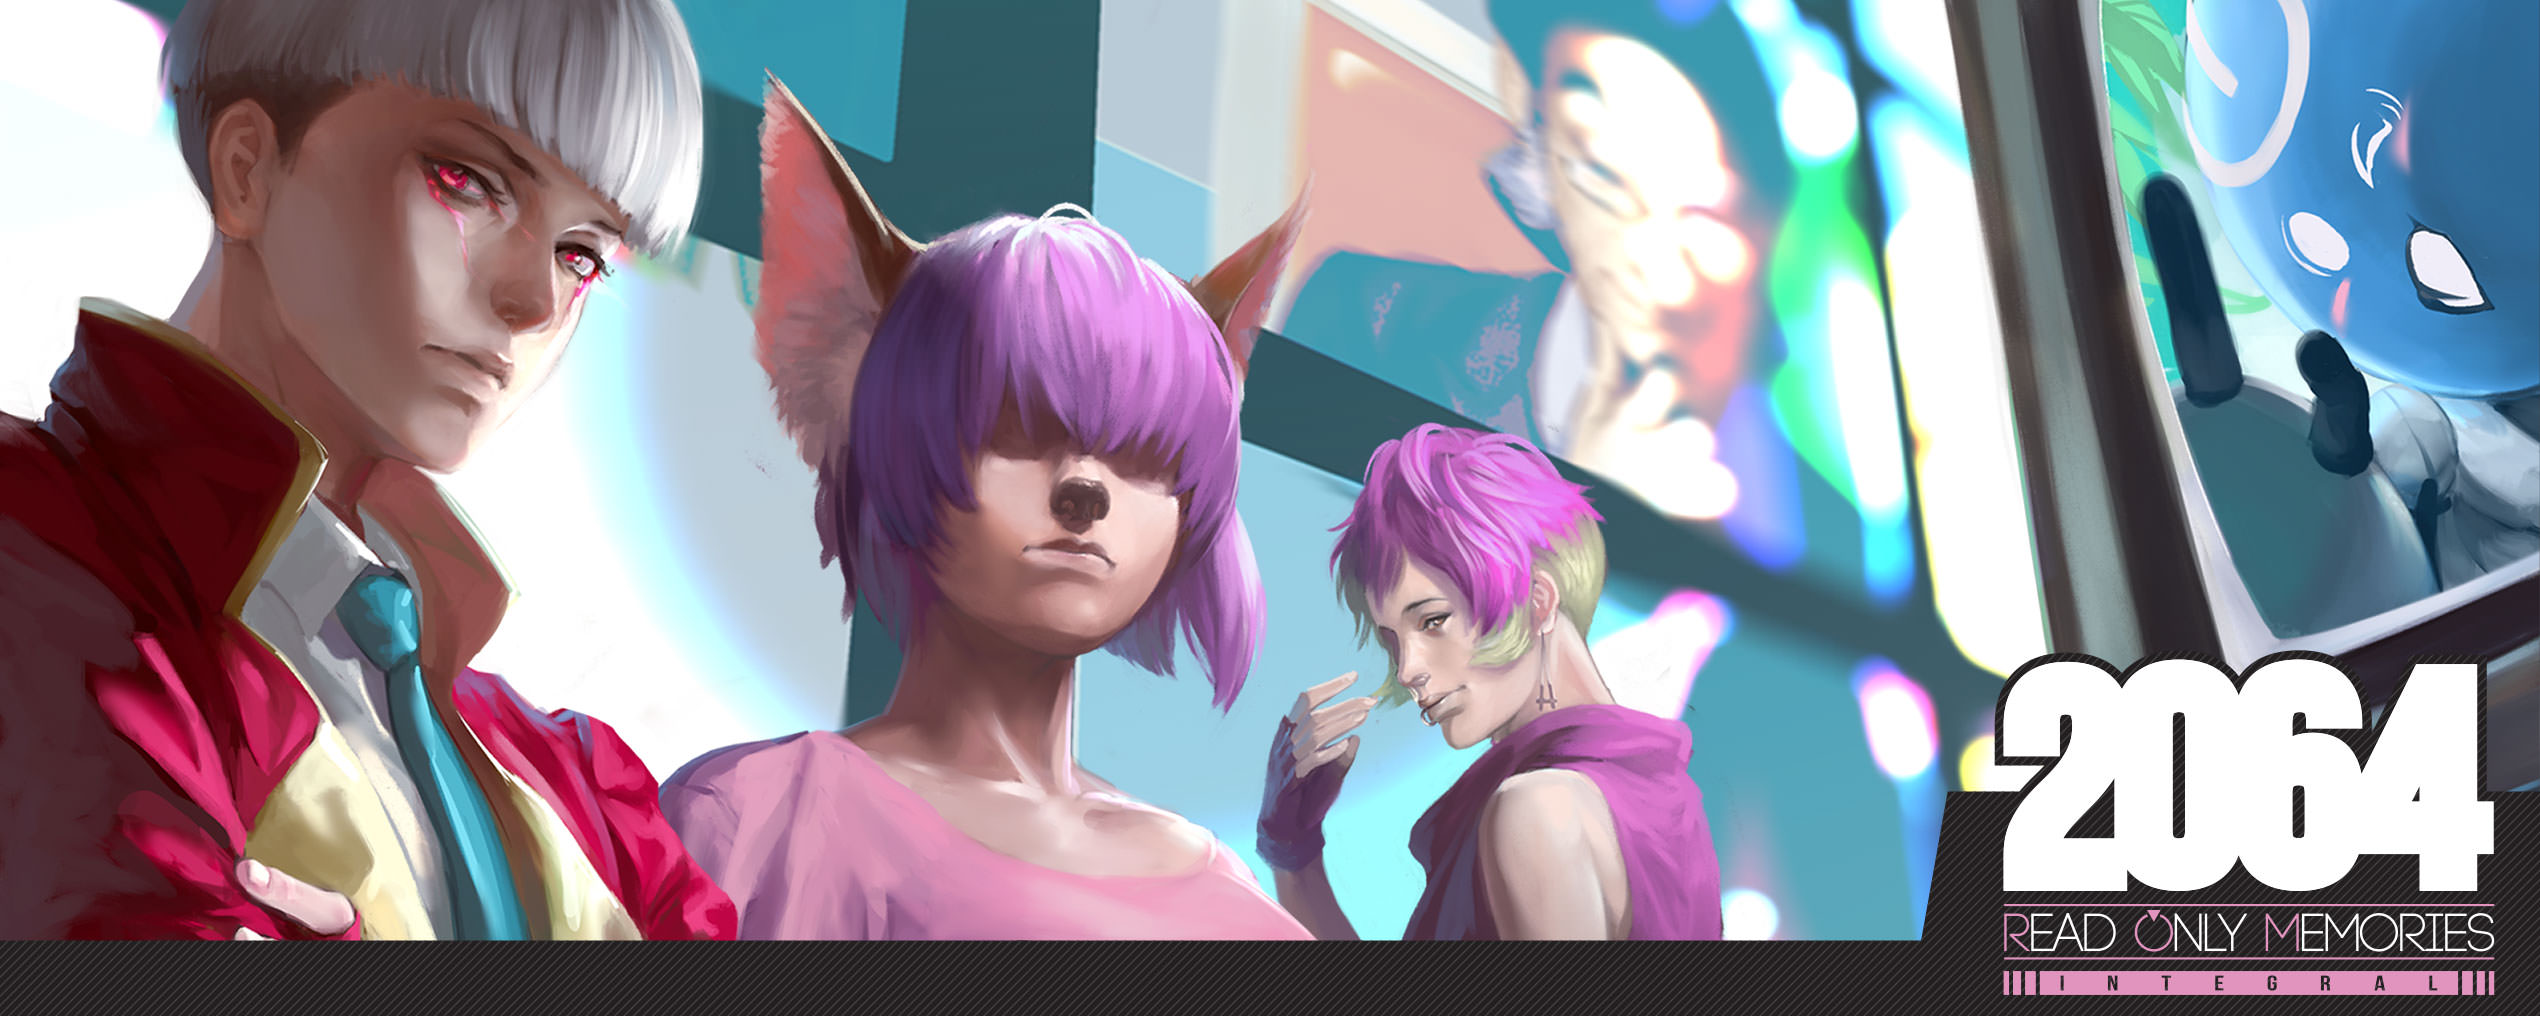
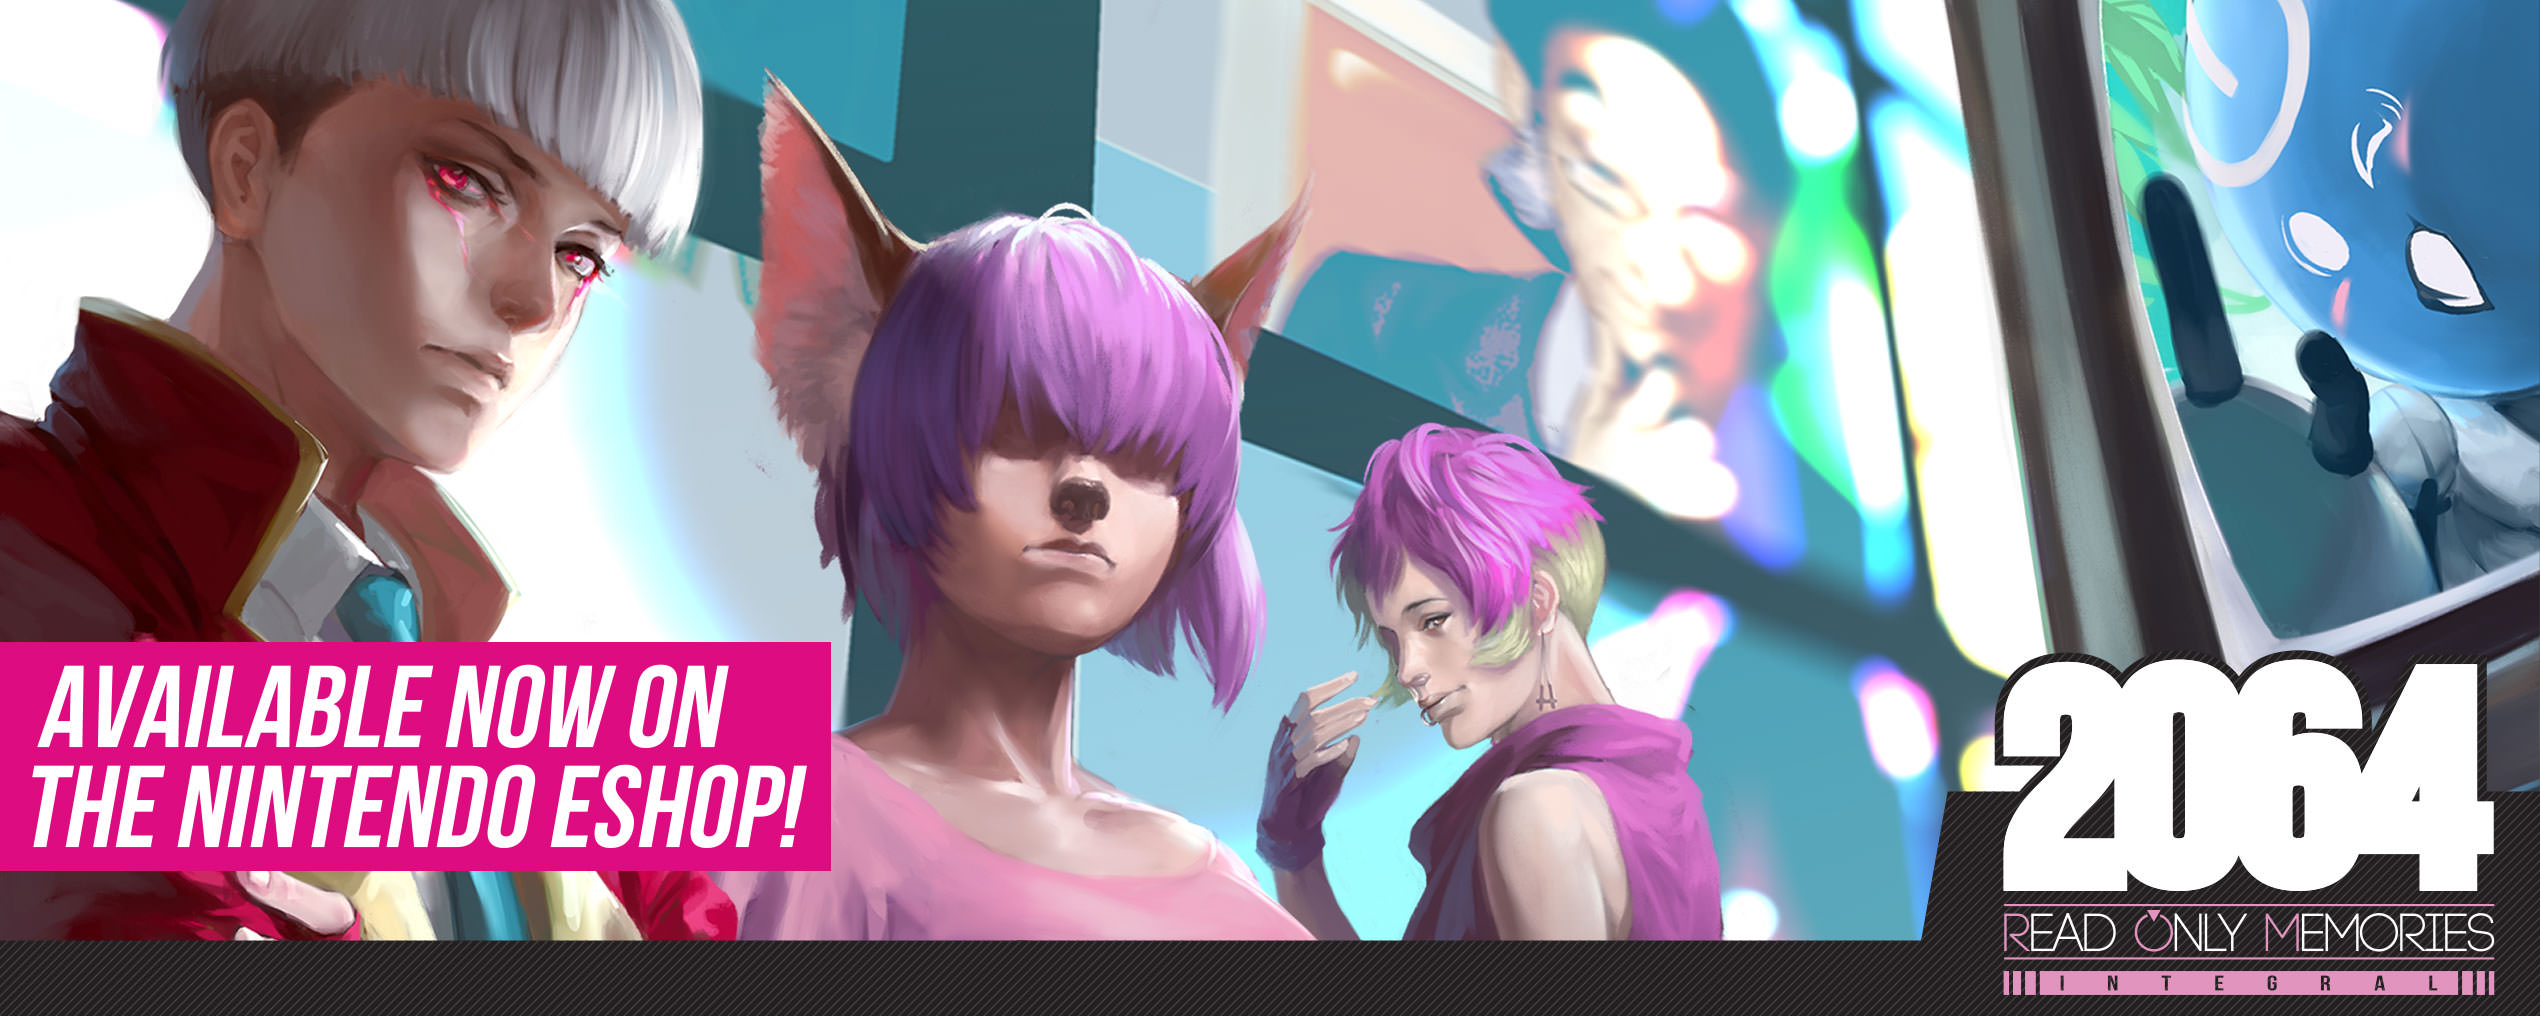
Out Now Images Update on Carousel

Changed region(s): [[0.0, 0.6102, 0.3421, 0.8543]]

diff --git a/press/2064romjp/index.html b/press/2064romjp/index.html
@@ -16,17 +16,17 @@
       <li>
         <h1><a href=".">2064: リードオンリーメモリーズ</a></h1>
         <ul>
-          <li><a href="#factsheet">Factsheet</a></li>
-          <li><a href="#description">Description</a></li>
+          <li><a href="#factsheet">ファクトシート</a></li>
+          <li><a href="#description">ゲーム詳細</a></li>
           <li><a href="#history">背景</a></li>
           <li><a href="#features">ゲームの特徴</a></li>
           <li><a href="#videos">トレーラー</a></li>
           <li><a href="#images">スクリーンショット</a></li>
           <li><a href="#logo-icon">ロゴ</a></li>
           <li><a href="#awards-recognition">受賞リスト</a></li>
-          <li><a href="#selected-articles">Selected Articles</a></li>
-          <li><a href="#about">About MidBoss</a></li>
-          <li><a href="#credits">Credits</a></li>
+          <li><a href="#selected-articles">関連記事紹介</a></li>
+          <li><a href="#about">MidBossについて</a></li>
+          <li><a href="#credits">開発スタッフ</a></li>
           <li><a href="#contact">連絡先</a></li>
         </ul>
       </li>
@@ -40,7 +40,7 @@
 
     <div id="intro-details">
       <div id="factsheet" class="w-3 w-s-10">
-        <h2>Factsheet</h2>
+        <h2>ファクトシート</h2>
         <div><h3>開発元:</h3><address>MidBoss<br>バークレー、 CA</address></div>
         <div><h3>リリース日:</h3><p>11月22日2017年</p></div>
         <div><h3>プラットフォーム:</h3><p>
@@ -64,7 +64,7 @@
         </div>
         <div id="history">
           <h2>背景</h2>
-          <p>GaymerXとGaming In Colorを手がけた後、MidBossのメンバー数人が自分たち自身で一からゲームを開発してみようと思い立ちました。2064:リードオンリーメモリーズは「多様性」というものの恩恵を感じる事自体は簡単だという我々の考え、そしてそれを面白く、奥が深いゲームに落としこむという努力の末に産まれたゲームです。ビデオゲームファンの中には、広大な世界観を共有するゲームを求める声が多く、AAAゲーム会社がそのテーマを持つゲームを開発するのを待つより、自分たちでチームを作り、我々の求めるゲームを作ってみようと考えたのです。ゲームというものは独特な、しかし多様性のあるキャラクターとテーマを持つことが大事だと思っています。</p>
+          <p>MidBossのメンバーたちは、これまで経験してきた様々なことを元にして、自分たち自身で１からゲームを開発してみようと思い立ちました。2064:リードオンリーメモリーズは「多様性」というものの恩恵を感じる事自体は簡単だという我々の考え、そしてそれを面白く、奥が深いゲームに落としこむという努力の末に産まれたゲームです。ビデオゲームファンの中には、広大な世界観を共有するゲームを求める声が多く、AAAゲーム会社がそのテーマを持つゲームを開発するのを待つより、自分たちでチームを作り、我々の求めるゲームを作ってみようと考えたのです。ゲームというものは独特な、しかし多様性のあるキャラクターとテーマを持つことが大事だと思っています。</p>
 
           <p>2064:リードオンリーメモリーズの開発では「ゲームが楽しい」というゴールを損なわないようにしながらこのテーマを適用するにはどうすればいいのか、ずっと考えていました。アドベンチャーゲームというジャンルは正に最適な解決策であり、クラシックなポイント・クリックジャンルを現代的なものに昇華できたのではないかと思います。</p>
         </div>
@@ -114,7 +114,7 @@
       </div>
     </div>
     <div id="videos">
-      <h2>Videos</h2>
+      <h2>トレーラー</h2>
       <p>Launch Trailer</p>
       <div class="embed-responsive embed-responsive-16by9">
         <iframe class="embed-responsive-item" src="https://www.youtube.com/embed/8JKVvRWT-Ew?rel=0&amp;showinfo=0" allowfullscreen="allowfullscreen" frameborder="0"></iframe>
@@ -122,7 +122,7 @@
     </div>
     <div id="images">
       <h2>スクリーンショット</h2>
-      <p>download files as <a href="./media/2064_images.zip" target="_blank">.zip (65 KB)</a></p>
+      <p><a href="./media/2064_images.zip" target="_blank">.zip</a>形式でダウンロードする</p>
       <div class="w-10">
         <a href="./media/2064_1.png" target="_blank"><img class="i-5 i-s-10" src="./media/2064_1.png"></a>
         <a href="./media/2064_2.png" target="_blank"><img class="i-5 i-s-10" src="./media/2064_2.png"></a>
@@ -136,7 +136,7 @@
     </div>
     <div id="logo-icon">
       <h2>ロゴ</h2>
-      <p>download file as <a href="./media/2064_logo.zip" target="_blank">.zip (7 KB)</a></p>
+      <p><a href="./media/2064_logo.zip" target="_blank">.zip</a>形式でダウンロードする</p>
       <div class="w-10">
         <a href="./media/2064Logo_Dark3D.png" target="_blank"><img class="i-5 i-s-10" src="./media/2064Logo_Dark3DPreview.png"></a>
         <a href="./media/2064Logo_Light3D.png" target="_blank"><img class="i-5 i-s-10" src="./media/2064Logo_Light3D.png"></a>
@@ -153,14 +153,14 @@
             <footer><p>- <em>2064: Read Only Memories, 2015</em></p></footer>
           </li>
           <li>
-            <p><q>Famitsu Gold</q></p>
+            <p><q>ファミ通ゴールド殿堂入り</q></p>
             <footer><p>- <em>2064: Read Only Memories, 2017</em></p></footer>
           </li>
         </ul>
       </blockquote>
     </div>
     <div id="selected-articles">
-      <h2>Selected Articles</h2>
+      <h2>関連記事紹介</h2>
       <blockquote>
         <ul>
           <li>
@@ -180,7 +180,6 @@
     </div>
     <div id="about">
       <h2>MidBossについて</h2>
-      <h3>Boilerplate</h3>
       <p>MidBossはサンフランシスコにあるゲーム・メディア制作スタジオです。これまでのプロジェクトには高評価を受けたドキュメンタリーであるGaming in Colour、現在はサイバーパンクポイント・クリックアドベンチャーであるリードオンリーメモリーズのリリースを間近に控えています。</p>
 
       <p>会社を構成するメンバーは多様なバックグラウンドを持つプロフェッショナルたちです。「面白いメディアとは、包括的なキャラクターがそのメディアの象徴か、それ以上の存在になれる環境を作り出すことが出来るもの」という考えをもとに会社を立ち上げました。</p>
@@ -188,22 +187,22 @@
     <div id="outro-details">
       <div id="credits" class="w-5 w-xs-10">
         <h2>Credits</h2>
-        <p><strong><a>Matt Conn</a></strong><br>Executive Producer, Creator</p>
-        <p><strong><a>John James</a></strong><br>Director, Lead Artist, Animator</p>
-        <p><strong><a>Philip Jones</a></strong><br>Editor, Associate Producer, World Writer</p>
-        <p><strong><a>Sergio Kossio</a></strong><br>Programmer, Lead Scripter, Game Design, Additional Art</p>
-        <p><strong><a>Matthew Hopkins</a></strong><br>Audio Director, Sound Design</p>
-        <p><strong><a>Ted DiNola</a></strong><br>Programmer, Game Design, Additional Art</p>
-        <p><strong><a>Tommy Thompson</a></strong><br>Story</p>
-        <p><strong><a>Mario Santos</a></strong><br>Scripting, Additional Sounds, QA</p>
-        <p><strong><a>Addie Lombardo</a></strong><br>Programming</p>
+        <p><strong><a>Matt Conn</a></strong><br>エグゼクティブプロデューサー</p>
+        <p><strong><a>John James</a></strong><br>ディレクター・リードアーティスト・アニメータ</p>
+        <p><strong><a>Philip Jones</a></strong><br>編集者・プロデューサー補佐・世界観設定</p>
+        <p><strong><a>Sergio Kossio</a></strong><br>プログラマー・リードスクリプト・ゲームデザイン・アーティスト</p>
+        <p><strong><a>Matthew Hopkins</a></strong><br>オーディオディレクター・サウンドデザイン</p>
+        <p><strong><a>Ted DiNola</a></strong><br>プログラマー・ゲームデザイン・アーティスト</p>
+        <p><strong><a>Tommy Thompson</a></strong><br>ストーリー</p>
+        <p><strong><a>Mario Santos</a></strong><br>スクリプト・追加サウンドデザイン・QA</p>
+        <p><strong><a>Addie Lombardo</a></strong><br>プログラマー</p>
       </div>
       <div id="contact" class="w-5 w-xs-10">
         <h2>連絡先</h2>
         <p><strong>連絡用アドレス</strong><br><a href="mailto:info@midboss.com">info@midboss.com</a><br><a href="mailto:support@playism.jp">support@playism.jp</a></p>
         <p><strong>Twitter</strong><br><a href="http://twitter.com/MidBoss" target="_blank" class="external">twitter.com/MidBoss</a></p>
-        <p><strong> Facebook</strong><br><a href="http://facebook.com/WeAreMidBoss" target="_blank" class="external">facebook.com/WeAreMidBoss</a></p>
-        <p><strong>Web</strong><br><a href="http://midboss.com" target="_blank" class="external">midboss.com</a></p>
+        <p><strong>Facebook</strong><br><a href="http://facebook.com/WeAreMidBoss" target="_blank" class="external">facebook.com/WeAreMidBoss</a></p>
+        <p><strong>ウェブサイト</strong><br><a href="http://midboss.com" target="_blank" class="external">midboss.com</a></p>
       </div>
     </div>
 

diff --git a/index.html b/index.html
@@ -87,8 +87,8 @@
             <div class="swiper-wrapper">
                 <!-- Slides -->
                 <!-- Slide 1 -->
-                <div class="swiper-slide"><a href="https://www.nintendo.com/games/detail/2064-read-only-memories-integral-switch" target=_blank><img class="d-none d-sm-block" src="./imgs/2064Integral_Banner_Preorder.jpg" alt="2064 Read Only Memories" /></a>
-                  <a href="https://www.nintendo.com/games/detail/2064-read-only-memories-integral-switch" target=_blank><img class="d-sm-none" src="./imgs/2064_BannerMobile_Preorder.jpg" alt="2064 Read Only Memories" /></a></div>
+                <div class="swiper-slide"><a href="https://www.nintendo.com/games/detail/2064-read-only-memories-integral-switch" target=_blank><img class="d-none d-sm-block" src="./imgs/2064Integral_Banner.jpg" alt="2064 Read Only Memories" /></a>
+                  <a href="https://www.nintendo.com/games/detail/2064-read-only-memories-integral-switch" target=_blank><img class="d-sm-none" src="./imgs/2064_BannerMobile.jpg" alt="2064 Read Only Memories" /></a></div>
                 <!-- Slide 2 -->
                 <div class="swiper-slide"><a href="https://store.steampowered.com/bundle/8037/Queer_Games_Bundle/" target=_blank><img class="d-none d-sm-block" src="./imgs/QGB_WebBanner_01.jpg" alt="Queer Games Bundle" /></a>
                   <a href="https://store.steampowered.com/bundle/8037/Queer_Games_Bundle/" target=_blank><img class="d-sm-none" src="./imgs/QGB_BannerMobile_01.jpg" alt="Queer Games Bundle" /></a></div>
